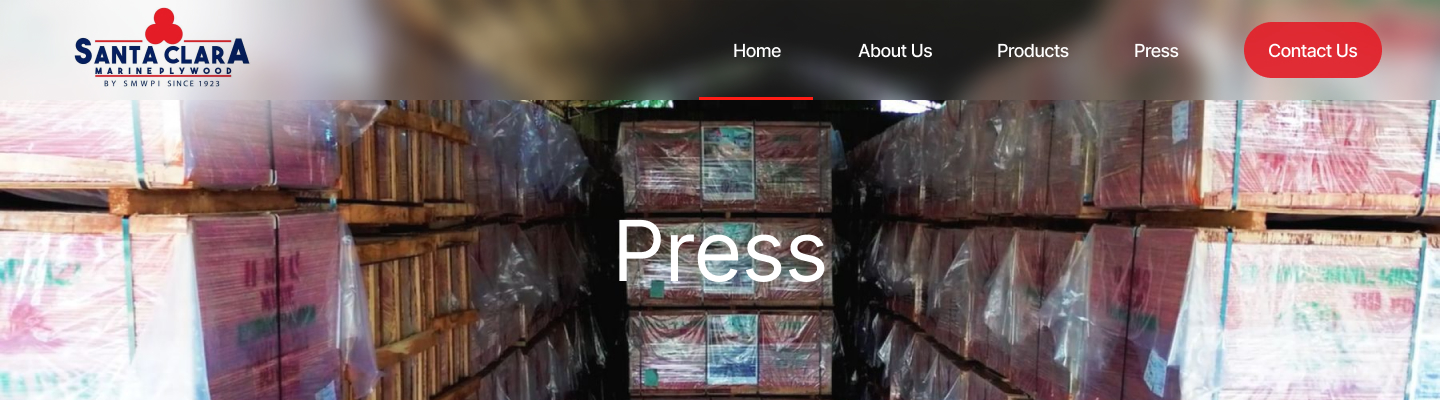
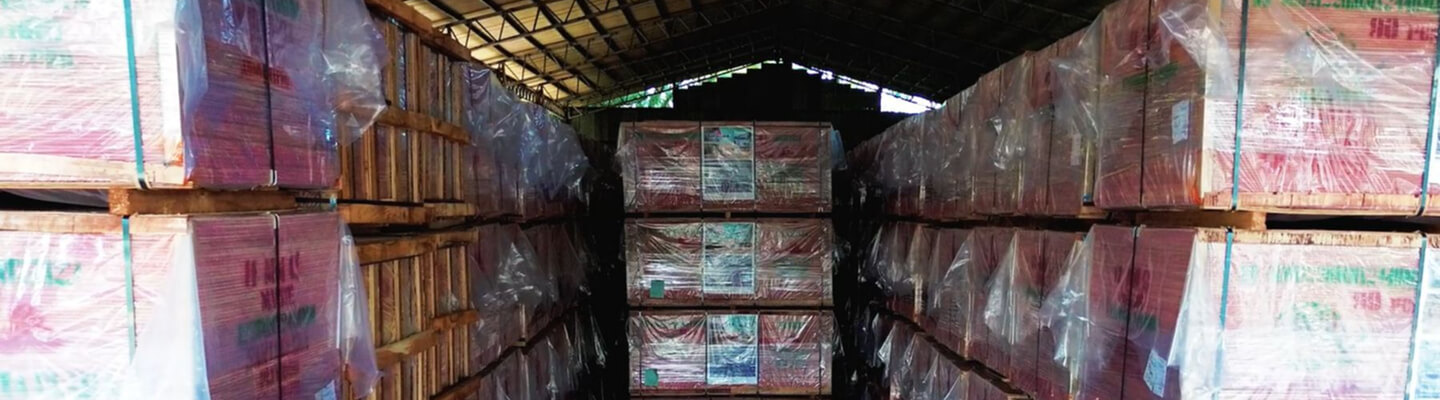
Finish Press page

Changed region(s): [[0.0, 0.0, 1.0, 0.45], [0.4062, 0.54, 0.5938, 0.72]]

diff --git a/app/components/sections/press/WatchTikTokSection.tsx b/app/components/sections/press/WatchTikTokSection.tsx
@@ -1,0 +1,178 @@
+"use client";
+
+import { useState, useEffect } from "react";
+import { Section } from "@/components/layout/Section";
+import { Row } from "@/components/layout/Row";
+import { Swiper, SwiperSlide } from 'swiper/react';
+import { Pagination } from 'swiper/modules';
+import type { Swiper as SwiperType } from 'swiper';
+import 'swiper/css';
+import 'swiper/css/pagination';
+
+interface TikTokVideo {
+  id: string;
+  videoUrl: string;
+  videoId: string;
+  title: string;
+  thumbnail?: string;
+}
+
+const tiktokVideos: TikTokVideo[] = [
+  { 
+    id: '1', 
+    videoUrl: 'https://www.tiktok.com/@santaclaraplywood/video/7534614515468569874',
+    videoId: '7534614515468569874',
+    title: 'Plywood Thickness Guide' 
+  },
+  { 
+    id: '2', 
+    videoUrl: 'https://www.tiktok.com/@santaclaraplywood/video/7511267871910137106',
+    videoId: '7511267871910137106',
+    title: 'Quality Over Cheap Plywood' 
+  },
+  { 
+    id: '3', 
+    videoUrl: 'https://www.tiktok.com/@santaclaraplywood/video/7376495322270289157',
+    videoId: '7376495322270289157',
+    title: 'Community Support - Yellow Boat Project' 
+  },
+  { 
+    id: '4', 
+    videoUrl: 'https://www.tiktok.com/@santaclaraplywood/video/7616357845444988178',
+    videoId: '7616357845444988178',
+    title: 'WORLDBEX 2026 Day 1' 
+  },
+  { 
+    id: '5', 
+    videoUrl: 'https://www.tiktok.com/@santaclaraplywood/video/7612589672862141712',
+    videoId: '7612589672862141712',
+    title: 'WORLDBEX 2026 Announcement' 
+  },
+  { 
+    id: '6', 
+    videoUrl: 'https://www.tiktok.com/@santaclaraplywood/video/7608497529927240976',
+    videoId: '7608497529927240976',
+    title: 'Built by Pros - Marine Plywood' 
+  },
+  { 
+    id: '7', 
+    videoUrl: 'https://www.tiktok.com/@santaclaraplywood/video/7605552080450800903',
+    videoId: '7605552080450800903',
+    title: 'Strength and Reliability' 
+  },
+  { 
+    id: '8', 
+    videoUrl: 'https://www.tiktok.com/@santaclaraplywood/video/7602207486900325649',
+    videoId: '7602207486900325649',
+    title: 'Good Projects Start with Good Materials' 
+  },
+];
+
+export function WatchTikTokSection() {
+  const [videos, setVideos] = useState<TikTokVideo[]>(tiktokVideos);
+
+  // Fetch TikTok thumbnails using oEmbed API
+  useEffect(() => {
+    const fetchThumbnails = async () => {
+      const updatedVideos = await Promise.all(
+        tiktokVideos.map(async (video) => {
+          try {
+            const response = await fetch(
+              `https://www.tiktok.com/oembed?url=${video.videoUrl}`
+            );
+            const data = await response.json();
+            return {
+              ...video,
+              thumbnail: data.thumbnail_url || `/images/gallery-image-${video.id}.jpg`,
+            };
+          } catch (error) {
+            console.error(`Error fetching thumbnail for video ${video.id}:`, error);
+            return {
+              ...video,
+              thumbnail: `/images/gallery-image-${video.id}.jpg`, // fallback
+            };
+          }
+        })
+      );
+      setVideos(updatedVideos);
+    };
+
+    fetchThumbnails();
+  }, []);
+
+  return (
+    <Section bgColor="bg-[#F5F6FA] lg:py-[50px] py-[36px]">
+      <Row className="!max-w-[1440px]">
+        <div className="text-center max-w-[674px] mx-auto">
+          <h2 className="text-[36px] md:text-[48px] lg:text-6xl font-normal leading-[40px] md:leading-[72.6px] tracking-[2.4px] text-[#333333] ">
+            Watch Us on TikTok
+          </h2>
+          <p className="text-base leading-[28px] tracking-[-0.64px] text-[#333333] lg:my-[30px] my-[20px]">
+            Catch quick explainers, updates, and relatable content all in under a minute.
+          </p>
+        </div>
+        
+        <div className="w-full">
+          <Swiper
+            slidesPerView={1}
+            spaceBetween={27.98}
+            loop={false}
+            pagination={{
+              clickable: true,
+              el: '.custom-swiper-pagination',
+            }}
+            breakpoints={{
+              640: {
+                slidesPerView: 2,
+                spaceBetween: 14,
+              },
+              768: {
+                slidesPerView: 3,
+                spaceBetween: 16,
+              },
+              1024: {
+                slidesPerView: 4,
+                spaceBetween: 20,
+              },
+            }}
+            modules={[Pagination]}
+            className="mySwiper"
+          >
+            {videos.map((video) => (
+              <SwiperSlide key={video.id}>
+                <a 
+                  href={video.videoUrl}
+                  target="_blank"
+                  rel="noopener noreferrer"
+                  className="block cursor-pointer group"
+                >
+                  <div className="overflow-hidden rounded-lg bg-black relative">
+                    <img 
+                      src={video.thumbnail || '/images/gallery-image.jpg'}
+                      alt={video.title}
+                      className="w-full h-[428px] object-cover transition-transform duration-300 group-hover:scale-105"
+                      loading="lazy"
+                    />
+                    {/* Play Button Overlay */}
+                    <div className="absolute inset-0 bg-black/30 flex items-center justify-center group-hover:bg-black/40 transition-all duration-300">
+                      <div className="w-[60px] h-[60px] group-hover:scale-110 transition-transform duration-300">
+                        <img 
+                          src="/images/play-icon.svg" 
+                          alt="Play video"
+                          className="w-full h-full"
+                        />
+                      </div>
+                    </div>
+                  </div>
+                </a>
+              </SwiperSlide>
+            ))}
+          </Swiper>
+          
+          {/* Custom Pagination Container */}
+          <div className="custom-swiper-pagination"></div>
+        </div>
+      </Row>
+    </Section>
+  );
+}

diff --git a/app/components/sections/press/BlogPostsSection.tsx b/app/components/sections/press/BlogPostsSection.tsx
@@ -1,0 +1,61 @@
+"use client";
+
+import { useState } from "react";
+import { Section } from "@/components/layout/Section";
+import { Row } from "@/components/layout/Row";
+import { PressCard } from "@/components/blocks/PressCard";
+import { ArrowButton } from "@/components/ui/ArrowButton";
+import { newsData } from "@/app/lib/data/newsData";
+
+const ITEMS_PER_PAGE = 4;
+
+export function BlogPostsSection() {
+  const [visibleItems, setVisibleItems] = useState(ITEMS_PER_PAGE);
+  
+  const handleToggleItems = () => {
+    if (visibleItems >= newsData.length) {
+      // Show less - reset to initial 4 items
+      setVisibleItems(ITEMS_PER_PAGE);
+    } else {
+      // Load more - show 4 more items
+      setVisibleItems(prev => Math.min(prev + ITEMS_PER_PAGE, newsData.length));
+    }
+  };
+
+  const visibleNewsData = newsData.slice(0, visibleItems);
+  const showLoadMore = visibleItems < newsData.length;
+  const showShowLess = visibleItems >= newsData.length && newsData.length > ITEMS_PER_PAGE;
+
+  return (
+    <Section bgColor="bg-white lg:py-[100px] md:py-[60px] py-[40px]">
+      <Row>
+        <div className="text-center max-w-[674px] mx-auto mb-[30px]">
+          <h2 className="text-[36px] md:text-[48px] lg:text-6xl font-normal leading-[40px] md:leading-[72.6px] tracking-[2.4px] text-[#333333] md:mb-[30px] mb-[20px]">
+            Latest Blog Posts
+          </h2>
+          <p className="text-base leading-[28px] tracking-[-0.64px] text-[#333333]">
+            Explore our latest articles designed to answer common questions and share practical knowledge.
+          </p>
+        </div>
+        <div className="grid grid-cols-2 md:flex md:flex-wrap md:justify-center gap-[18px]">
+          {visibleNewsData.map((item) => (
+            <PressCard
+              key={item.id}
+              slug={item.slug}
+              title={item.title}
+              date={item.date}
+              image={item.image}
+            />
+          ))}
+        </div>
+        {(showLoadMore || showShowLess) && (
+          <div className="flex justify-center lg:mt-[50px] mt-[36px]">
+            <ArrowButton onClick={handleToggleItems}>
+              {showShowLess ? "Show Less" : "Load More"}
+            </ArrowButton>
+          </div>
+        )}
+      </Row>
+    </Section>
+  );
+}

diff --git a/app/globals.css b/app/globals.css
@@ -52,16 +52,49 @@
 }
 
 /* Swiper Custom Styles */
-.swiper-pagination {
-  bottom: 0 !important;
+.custom-swiper-pagination {
+  position: relative !important;
+  bottom: auto !important;
+  margin-top: 36px !important;
+  display: flex !important;
+  justify-content: center !important;
+  align-items: center !important;
+  gap: 12px !important;
+}
+
+@media (min-width: 1024px) {
+  .custom-swiper-pagination {
+    margin-top: 50px !important;
+  }
 }
 
 .swiper-pagination-bullet {
-  background: rgba(255, 255, 255, 0.5) !important;
+  width: 20px !important;
+  height: 20px !important;
+  background: #CF2923 !important;
   opacity: 1 !important;
+  border: 3px solid transparent !important;
+  transition: all 0.3s ease !important;
+  margin: 0 !important;
+}
+
+@media (max-width: 767px) {
+  .swiper-pagination-bullet {
+    width: 14px !important;
+    height: 14px !important;
+    border: 3px solid transparent !important;
+  }
 }
 
 .swiper-pagination-bullet-active {
-  background: #ffffff !important;
+  background: #CF2923 !important;
+  opacity: 1 !important;
+  border: 5px solid #04217B !important;
+}
+
+@media (max-width: 767px) {
+  .swiper-pagination-bullet-active {
+    border: 3px solid #04217B !important;
+  }
 }
 

diff --git a/app/(pages)/press/page.tsx b/app/(pages)/press/page.tsx
@@ -2,39 +2,18 @@
 
 import Header from "@/components/layout/Header";
 import Footer from "@/components/layout/Footer";
-import { Section } from "@/components/layout/Section";
-import { Row } from "@/components/layout/Row";
-import { PressCard } from "@/components/blocks/PressCard";
 import { SubpageBanner } from "@/app/components/globals/SubpageBanner";
-import { newsData } from "@/app/lib/data/newsData";
+import { BlogPostsSection } from "@/components/sections/press/BlogPostsSection";
+import { WatchTikTokSection } from "@/components/sections/press/WatchTikTokSection";
 
 export default function PressPage() {
- return (
+  return (
     <div className="bg-white flex justify-center min-h-screen w-full">
       <div className="relative w-full">
         <Header />
-        <SubpageBanner title="Press" />
-        <Section bgColor="bg-white lg:py-[100px] md:py-[60px] py-[40px]">
-          <Row>
-              <div className="text-center max-w-[674px] mx-auto mb-[30px]">
-              <h2 className="text-[36px] md:text-[48px] lg:text-6xl font-normal leading-[72.6px] tracking-[2.4px] text-[#333333] mb-[30px]">Latest Blog Posts</h2>
-              <p className="text-base leading-[28px] tracking-[-0.64px] text-[#333333]">
-                Explore our latest articles designed to answer common questions and share practical knowledge.
-              </p>
-              </div>
-              <div className="flex flex-wrap justify-center gap-[18px]">
-                {newsData.map((item) => (
-                  <PressCard
-                    key={item.id}
-                    slug={item.slug}
-                    title={item.title}
-                    date={item.date}
-                    image={item.image}
-                  />
-                ))}
-              </div>
-          </Row>
-        </Section>
+        <SubpageBanner title="Press" backgroundImage="/images/press-banner.jpg"  />
+        <BlogPostsSection />
+        <WatchTikTokSection />
         <Footer />
       </div>
     </div>

diff --git a/app/components/blocks/PressCard.tsx b/app/components/blocks/PressCard.tsx
@@ -14,12 +14,7 @@ export function PressCard({ slug, title, date, image }: PressCardProps) {
   const [isHovered, setIsHovered] = useState(false);
 
   return (
-    <Link 
-      href={`/press/${slug}`} 
-      className="max-w-[315px] group"
-      onMouseEnter={() => setIsHovered(true)}
-      onMouseLeave={() => setIsHovered(false)}
-    >
+    <div className="md:max-w-[315px] group">
       <div className="w-full">
         {/* Image */}
         <div className="w-full overflow-hidden">
@@ -32,16 +27,21 @@ export function PressCard({ slug, title, date, image }: PressCardProps) {
 
         {/* Content */}
         <div className="w-full text-left mt-[20px] mb-[24px]">
-          <h3 className="text-[#333333] text-base leading-[32px] tracking-[-0.64px] font-medium mb-[8px] line-clamp-2">
+          <p className="text-[#333333] text-base md:leading-[32px] tracking-[-0.64px] font-medium mb-[8px] line-clamp-2">
             {title}
-          </h3>
+          </p>
           <p className="text-sm leading-[17px] tracking-[-0.56px] text-[#333333] opacity-70">
             {date}
           </p>
         </div>
 
-        {/* Read More Button */}
-        <div className="content-stretch flex gap-[4px] items-center relative shrink-0">
+        {/* Read More Button - Only this is clickable */}
+        <Link 
+          href={`/press/${slug}`}
+          className="content-stretch flex gap-[4px] items-center relative shrink-0 cursor-pointer"
+          onMouseEnter={() => setIsHovered(true)}
+          onMouseLeave={() => setIsHovered(false)}
+        >
           <p className="font-body font-semibold leading-[normal] not-italic relative shrink-0 text-[#ff1c14] text-[14px] tracking-[-0.56px] whitespace-nowrap">
             Read More
           </p>
@@ -54,8 +54,8 @@ export function PressCard({ slug, title, date, image }: PressCardProps) {
               }`}
             />
           </div>
-        </div>
+        </Link>
       </div>
-    </Link>
+    </div>
   );
 }